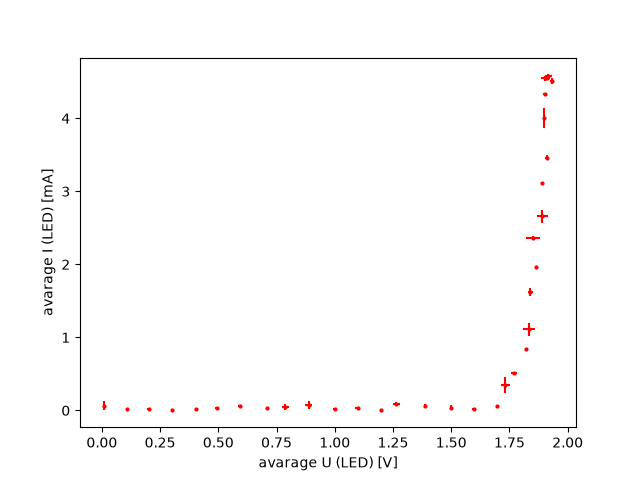
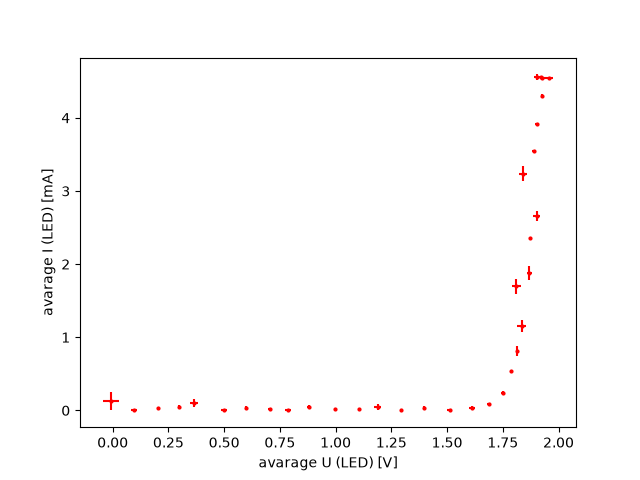
fully finished class modification (05.11)(11:32)

diff --git a/diode_experiment_2.py b/diode_experiment_2.py
@@ -38,7 +38,11 @@ class ArduinoVISADevice:
     def __init__(self, port):
         self.rm = pyvisa.ResourceManager("@py")
 
-        self.device = self.rm.open_resource(port,read_termination="\r\n",write_termination="\n",)
+        self.device = self.rm.open_resource(
+            port,
+            read_termination="\r\n",
+            write_termination="\n",
+        )
 
     def get_identification(self):
         return self.device
@@ -89,7 +93,9 @@ def U_I_determination(i):
     U_2 = device.get_input_voltage(channel=2)  # we determine U in channel 2
 
     U_LED = U_1 - U_2
-    I_LED = (U_2 / 220) * 1000  # with resistance of 220 Ohm, and current is low, so multiply by 1000
+    I_LED = (
+        U_2 / 220
+    ) * 1000  # with resistance of 220 Ohm, and current is low, so multiply by 1000
 
     return U_LED, I_LED
 
@@ -152,15 +158,22 @@ with open("002_U_I_LED_with_errors.csv", "w", newline="") as csvfile:
     writer = csv.writer(csvfile)
     writer.writerow(["voltage [V]", "error voltage [V]", "current [mA]", "error current [mA]"])
     for U_mean_csv, I_mean_csv, err_U_csv, err_I_csv in zip(list_mean_U, list_mean_I, err_U, err_I):
-
-        print(f"Avarage voltage = {U_mean_csv} +/- {err_U_csv}, Avarage current {I_mean_csv} +/- {err_I_csv}")
+        #print(f"Avarage voltage = {U_mean_csv} +/- {err_U_csv}, Avarage current {I_mean_csv} +/- {err_I_csv}")
 
         writer.writerow([U_mean_csv, err_U_csv, I_mean_csv, err_I_csv])
 
     # na dit blok sluit Python automatisch het bestand
 # print identification string
 
-plt.errorbar(list_mean_U, list_mean_I, xerr=err_U, yerr=err_I, fmt="o", color="red", markersize=2)
+print(list_resources())
+
+identification = device.get_identification()
+
+print(identification)
+
+plt.errorbar(
+    list_mean_U, list_mean_I, xerr=err_U, yerr=err_I, fmt="o", color="red", markersize=2
+)
 
 plt.xlabel("avarage U (LED) [V]")
 plt.ylabel("avarage I (LED) [mA]")

diff --git a/test_cntrl_2.py b/test_cntrl_2.py
@@ -54,7 +54,6 @@ class ArduinoVISADevice:
         voltage = float(raw_) * (3.3 / 1024)
         return voltage
 
-
 #        return the voltage of the input channel (in Volt)
 
 
